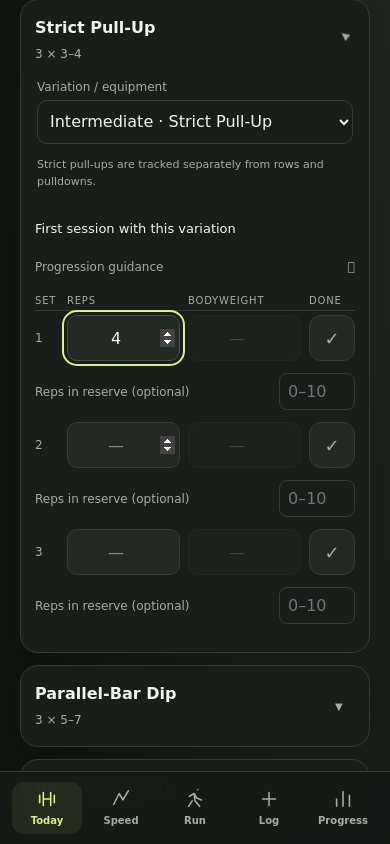
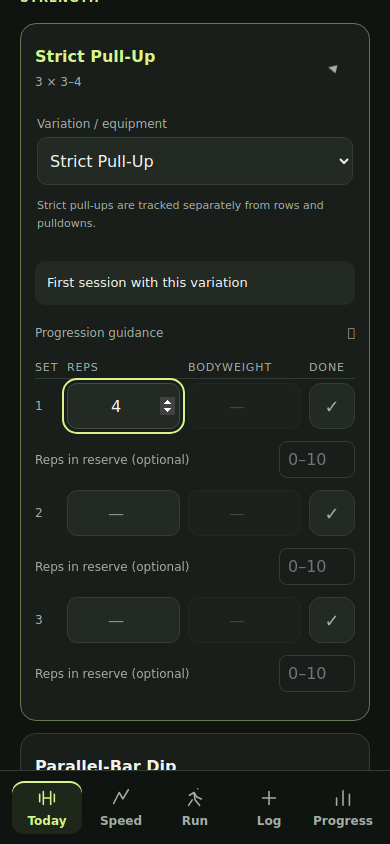
Restore training UI accents and add home barbell substitutions

diff --git a/calisthenics.js b/calisthenics.js
@@ -78,6 +78,7 @@ const HC_VARIANTS = {
     hcV("Lat Pulldown", "8–12", "external"),
     hcV("DB Supported Row", "8–12/side", "external"),
     hcV("Inverted Row", "6–12"),
+    hcV("Barbell Row", "8–12", "external"),
   ],
   dip: [
     hcV("Assisted Parallel-Bar Dip", "6–10", "assistance", "Beginner"),
@@ -86,6 +87,7 @@ const HC_VARIANTS = {
     hcV("Weighted Parallel-Bar Dip", "4–8", "added", "Advanced"),
     hcV("Close-Grip Push-Up", "6–12"),
     hcV("DB Floor Press", "8–12", "external"),
+    hcV("Barbell Close-Grip Bench Press", "6–10", "external"),
   ],
   push: [
     hcV("Incline Push-Up", "8–12", "bodyweight", "Beginner"),
@@ -94,6 +96,8 @@ const HC_VARIANTS = {
     hcV("Decline Push-Up", "6–12", "bodyweight", "Advanced"),
     hcV("Weighted Push-Up", "6–10", "added", "Advanced"),
     hcV("DB Bench Press", "8–12", "external"),
+    hcV("Barbell Bench Press", "6–10", "external"),
+    hcV("Barbell Floor Press", "8–12", "external"),
   ],
   row: [
     hcV("Supported Bodyweight Row", "8–12", "bodyweight", "Beginner"),
@@ -103,12 +107,14 @@ const HC_VARIANTS = {
     hcV("Band Row", "10–15", "bodyweight", "Beginner"),
     hcV("Prone Pull-Down", "10–15", "bodyweight", "Beginner"),
     hcV("Seated Cable Row", "8–12", "external"),
+    hcV("Barbell Row", "8–12", "external"),
   ],
   press: [
     hcV("Elevated Pike Push-Up", "6–10", "bodyweight", "Beginner"),
     hcV("Pike Push-Up", "5–10"),
     hcV("Feet-Elevated Pike Push-Up", "4–8", "bodyweight", "Advanced"),
     hcV("DB Overhead Press", "6–10", "external"),
+    hcV("Barbell Overhead Press", "6–10", "external"),
   ],
   frog: [
     hcV("Frog Crunches", "12–20", "bodyweight", "Beginner"),
@@ -120,6 +126,7 @@ const HC_VARIANTS = {
     hcV("Supported Split Squat", "8–10/leg", "bodyweight", "Beginner"),
     hcV("Bodyweight Bulgarian Split Squat", "6–10/leg"),
     hcV("Weighted Bulgarian Split Squat", "6–10/leg", "external", "Advanced"),
+    hcV("Barbell Split Squat", "6–10/leg", "external"),
   ],
   hinge: [
     hcV("Bodyweight Hip Hinge", "10–12", "bodyweight", "Beginner"),
@@ -130,11 +137,13 @@ const HC_VARIANTS = {
     hcV("Low Step-Up", "8–10/leg", "bodyweight", "Beginner"),
     hcV("Reverse Lunge", "8–10/leg"),
     hcV("Weighted Step-Up", "8–10/leg", "external", "Advanced"),
+    hcV("Barbell Reverse Lunge", "6–10/leg", "external"),
   ],
   calf: [
     hcV("Standing Calf Raise", "12–20", "bodyweight", "Beginner"),
     hcV("Single-Leg Calf Raise", "10–15/leg"),
     hcV("Weighted Calf Raise", "10–15", "external", "Advanced"),
+    hcV("Barbell Calf Raise", "10–15", "external"),
   ],
   tib: [
     hcV("Wall Tibialis Raise", "12–20", "bodyweight", "Beginner"),
@@ -153,6 +162,7 @@ const HC_VARIANTS = {
     hcV("Band Pulldown", "10–15", "bodyweight", "Beginner"),
     hcV("Lat Pulldown", "8–12", "external"),
     hcV("DB Supported Row", "8–12/side", "external"),
+    hcV("Barbell Row", "8–12", "external"),
   ],
   squat: [
     hcV("Supported Bodyweight Squat", "8–12", "bodyweight", "Beginner"),
@@ -160,6 +170,8 @@ const HC_VARIANTS = {
     hcV("Goblet Squat", "8–12", "external", "Advanced"),
     hcV("Heel-Elevated Goblet Squat", "8–10", "external"),
     hcV("Slant-Board Bodyweight Squat", "6–10"),
+    hcV("Barbell Back Squat", "6–10", "external"),
+    hcV("Barbell Front Squat", "6–10", "external"),
   ],
   hollow: [
     hcV("Tucked Hollow Hold", "15–25", "bodyweight", "Beginner", "seconds"),
@@ -194,7 +206,7 @@ function hcExercise(movement, sets) {
   };
 }
 const HC_PRESETS = {
-  default: ["Pull-up bar", "Dip station", "Dumbbells", "Bench"],
+  default: ["Pull-up bar", "Dip station", "Dumbbells", "Bench", "Barbell"],
   "Commercial Gym": [
     "Pull-up bar",
     "Dip station",
@@ -203,6 +215,8 @@ const HC_PRESETS = {
     "Cables",
     "Machines",
     "Bands",
+    "Barbell",
+    "Squat rack",
   ],
   "Minimal Equipment": ["Bands"],
   "Bodyweight Only": [],
@@ -321,7 +335,7 @@ HC_SESSIONS.forEach((s, i) => {
   document.querySelector("main").append(p);
 });
 function hcVariantControl(id, base, ex) {
-  return `<div class="hc-variant"><label for="variant-${id}">Variation / equipment</label><select id="variant-${id}" onchange="hcChangeVariant('${id}',this)">${base.variants.map((v, i) => `<option value="${i}" ${v.variant === ex.variant ? "selected" : ""}>${v.level} · ${v.name}${hcAvailable(v.name, id.slice(0, 4)) ? "" : " · equipment needed"}</option>`).join("")}</select><p class="backup-note">${ex.movement === "push" && hcState.maxima.push === null ? "Push-up maximum untested. Start with comfortable technique sets; establish a clean max when recovered before pursuing progression targets. " : ""}${ex.movement === "dip" ? "Parallel-bar strength is tracked separately from pressing substitutes." : ex.movement === "pull" ? "Strict pull-ups are tracked separately from rows and pulldowns." : "Choose for today’s equipment. Your plan rotation stays the same."}</p></div>`;
+  return `<div class="hc-variant"><label for="variant-${id}">Variation / equipment</label><select id="variant-${id}" onchange="hcChangeVariant('${id}',this)">${base.variants.map((v, i) => `<option value="${i}" ${v.variant === ex.variant ? "selected" : ""}>${v.name}${hcAvailable(v.name, id.slice(0, 4)) ? "" : " · equipment needed"}</option>`).join("")}</select><p class="backup-note">${ex.movement === "push" && hcState.maxima.push === null ? "Push-up maximum untested. Start with comfortable technique sets; establish a clean max when recovered before pursuing progression targets. " : ""}${ex.movement === "dip" ? "Parallel-bar strength is tracked separately from pressing substitutes." : ex.movement === "pull" ? "Strict pull-ups are tracked separately from rows and pulldowns." : "Choose for today’s equipment. Your plan rotation stays the same."}</p></div>`;
 }
 function hcSetLogger(id, ex) {
   const last = getLastSessionData(ex.name),
@@ -654,15 +668,16 @@ document.addEventListener("DOMContentLoaded", () => {
 function hcEquipmentHTML(key) {
   const available = hcState.equipment[key]?.available ||
     HC_PRESETS?.default || ["Pull-up bar", "Dip station", "Dumbbells", "Bench"];
-  return `<details class="hybrid-note"><summary>Equipment available today</summary><div class="hc-equipment">${["Pull-up bar", "Dip station", "Dumbbells", "Bench", "Cables", "Machines", "Bands"].map((x) => `<label><input type="checkbox" value="${x}" data-hc-equipment="${key}" ${available.includes(x) ? "checked" : ""}>${x}</label>`).join("")}</div><p id="equipment-advice-${key}" class="backup-note"></p></details>`;
+  return `<details class="hybrid-note"><summary>Equipment available today</summary><div class="hc-equipment">${["Pull-up bar", "Dip station", "Dumbbells", "Bench", "Barbell", "Squat rack", "Cables", "Machines", "Bands"].map((x) => `<label><input type="checkbox" value="${x}" data-hc-equipment="${key}" ${available.includes(x) ? "checked" : ""}>${x}</label>`).join("")}</div><p id="equipment-advice-${key}" class="backup-note"></p></details>`;
 }
 function hcAvailable(name, key) {
-  const have = hcState.equipment[key]?.available || [
-    "Pull-up bar",
-    "Dip station",
-    "Dumbbells",
-    "Bench",
-  ];
+  const have = hcState.equipment[key]?.available || HC_PRESETS.default;
+  if (/Barbell/.test(name)) {
+    const required = ["Barbell"];
+    if (/Bench Press/.test(name)) required.push("Bench", "Squat rack");
+    if (/Back Squat|Front Squat|Split Squat|Reverse Lunge|Calf Raise/.test(name)) required.push("Squat rack");
+    return required.every(item => have.includes(item));
+  }
   if (/Band/.test(name)) return have.includes("Bands");
   if (
     /DB |Weighted (Step|Bulgarian|Calf)|Goblet|Tibialis/.test(name) &&
@@ -672,7 +687,6 @@ function hcAvailable(name, key) {
   if (/Pulldown/.test(name))
     return have.includes("Machines") || have.includes("Cables");
   if (/Cable/.test(name)) return have.includes("Cables");
-  if (/Barbell/.test(name)) return have.includes("Machines");
   if (/Inverted|Supported Bodyweight/.test(name))
     return have.includes("Pull-up bar");
   if (/Pull-Up|Chin-Up|Hang/.test(name)) return have.includes("Pull-up bar");
@@ -687,15 +701,13 @@ function hcEquipmentAdvice(key) {
       .forEach((option, j) => {
         const v = base.variants[j];
         option.textContent =
-          v.level +
-          " · " +
           v.name +
           (hcAvailable(v.name, key) ? "" : " · equipment needed");
       });
   });
   const target = document.getElementById("equipment-advice-" + key);
   target.textContent =
-    "Equipment preferences remembered. Select substitutions below; changes never reset your rotation.";
+    "Select the equipment you have, including a barbell at home. Bench presses and rack-loaded leg exercises also need a rack; bench presses need a bench. Log total barbell weight, including the bar. Your rotation stays the same.";
   WORKOUTS[key].sections[0].exercises.forEach((base, i) => {
     const id = key + "-Strength-" + i,
       ex = sessionSwaps[id] || base;

diff --git a/mobile.css b/mobile.css
@@ -64,7 +64,7 @@ header h1 { font-size: 24px; line-height: 1.2; letter-spacing: -.02em; }
 .hybrid-overview { padding-top: 16px; }
 .hybrid-overview h2 { font-size: 26px; line-height: 1.2; }
 .hybrid-eyebrow, .section-label, .equip-mode-label { font-size: 12px; letter-spacing: 0; text-transform: none; color: var(--muted); }
-.hybrid-note { background: var(--surface); border: 0; border-radius: var(--radius-card); }
+.hybrid-note { background: var(--surface); border: 1px solid var(--border); border-radius: var(--radius-card); }
 .hybrid-note b { color: var(--text); }
 .hybrid-note button, .hybrid-overview button { background: var(--surface2); color: var(--text); border: 1px solid #637063; }
 #hcNext button { background: var(--accent); color: #192211; border-color: transparent; }
@@ -72,12 +72,20 @@ header h1 { font-size: 24px; line-height: 1.2; letter-spacing: -.02em; }
 .workout-header { padding: 20px; border: 0; }
 .workout-title { font-size: 24px; letter-spacing: -.02em; }
 .tabs-wrap { background: var(--bg); }
-.tab.active { background: var(--surface2); color: var(--text); box-shadow: none; }
+.tab.active { background: #d5f58a13; color: var(--accent); box-shadow: inset 0 2px var(--accent); }
 .tab { font-size: 12px; }
-.session-control button { background: var(--text); color: var(--bg); }
+.session-control button { background: var(--accent); color: #192211; }
 .session-control button:disabled { background: var(--surface2); color: var(--muted); }
-.exercise-card, .warmup-card, .cooldown-card, .goal-editor, .log-entry { border-color: transparent; }
+.exercise-card, .warmup-card, .cooldown-card, .goal-editor, .log-entry { border-color: var(--border); }
 .exercise-card:focus-within { border-color: #637063; }
 .week-bars { font-variant-numeric: tabular-nums; }
 .week-bar, .week-bar b, #draftStatus { font-size: 12px; }
 @media (max-width: 360px) { header { padding: 20px 14px 12px; } .hybrid-overview { padding-inline: 14px; } }
+
+/* Keep the training hierarchy visible while leaving room for touch controls. */
+.exercise-card.open { border-color: #637a4e; }
+.exercise-card.open .exercise-name { color: var(--accent); }
+.section-label { color: var(--accent); font-weight: 700; letter-spacing: .08em; text-transform: uppercase; }
+.hc-variant { padding-top: 4px; }
+.hc-variant select { background: var(--surface2); min-height: 48px; }
+.hc-last { padding: 12px; background: var(--surface2); border-radius: 10px; }

diff --git a/sw.js b/sw.js
@@ -1,4 +1,4 @@
-const CACHE = 'athletic-tracker-v12';
+const CACHE = 'athletic-tracker-v13';
 const ASSETS = ['./index.html','./mobile.css','./mobile.js','./hybrid.js','./calisthenics.js','./speed.js','./manual.js','./race.js','./outdoor.js','./icon.svg','./icon-180-v3.png','./manifest.json','./icon-192-v3.png','./icon-512-v3.png'];
 self.addEventListener('install', event => {
   event.waitUntil(caches.open(CACHE).then(cache => cache.addAll(ASSETS)));
@@ -9,6 +9,14 @@ self.addEventListener('activate', event => {
 });
 self.addEventListener('fetch', event => {
   if(event.request.method !== 'GET' || new URL(event.request.url).origin !== self.location.origin) return;
+  // Serve the installed app shell together. A partial network response must not
+  // drop navigation/logging scripts or mix code from different releases.
+  const requestURL = new URL(event.request.url);
+  const shellURL = requestURL.pathname.endsWith('/') ? new URL('./index.html', self.registration.scope).href : requestURL.origin + requestURL.pathname;
+  if (ASSETS.some(asset => new URL(asset, self.registration.scope).href === shellURL)) {
+    event.respondWith(caches.open(CACHE).then(async cache => (await cache.match(shellURL)) || fetch(event.request)));
+    return;
+  }
   // A stalled connection must not prevent the installed app opening its cache.
   const controller = new AbortController();
   const timeout = setTimeout(() => controller.abort(), 5000);

diff --git a/manual.js b/manual.js
@@ -3,7 +3,7 @@ const FREE_KEY='athleticFreeWorkoutV1';
 const FREE_EQUIPMENT=['Dumbbell','Barbell','Cable','Machine','Kettlebell','Bodyweight','Band','Other'];
 const FREE_EXERCISES={
   Dumbbell:['Bench Press','Incline Press','Overhead Press','Row','Goblet Squat','Romanian Deadlift','Lunge','Split Squat','Lateral Raise','Hammer Curl','Biceps Curl','Triceps Extension','Calf Raise'],
-  Barbell:['Back Squat','Front Squat','Deadlift','Romanian Deadlift','Bench Press','Overhead Press','Row','Hip Thrust','Biceps Curl'],
+  Barbell:['Back Squat','Front Squat','Deadlift','Romanian Deadlift','Bench Press','Overhead Press','Row','Hip Thrust','Biceps Curl','Close-Grip Bench Press','Floor Press','Split Squat','Reverse Lunge','Calf Raise'],
   Cable:['Row','Lat Pulldown','Face Pull','Chest Fly','Lateral Raise','Triceps Pushdown','Hammer Curl','Pallof Press'],
   Machine:['Chest Press','Shoulder Press','Row','Lat Pulldown','Leg Press','Hack Squat','Leg Extension','Leg Curl','Calf Raise'],
   Kettlebell:['Swing','Goblet Squat','Deadlift','Press','Row','Turkish Get-Up'],
